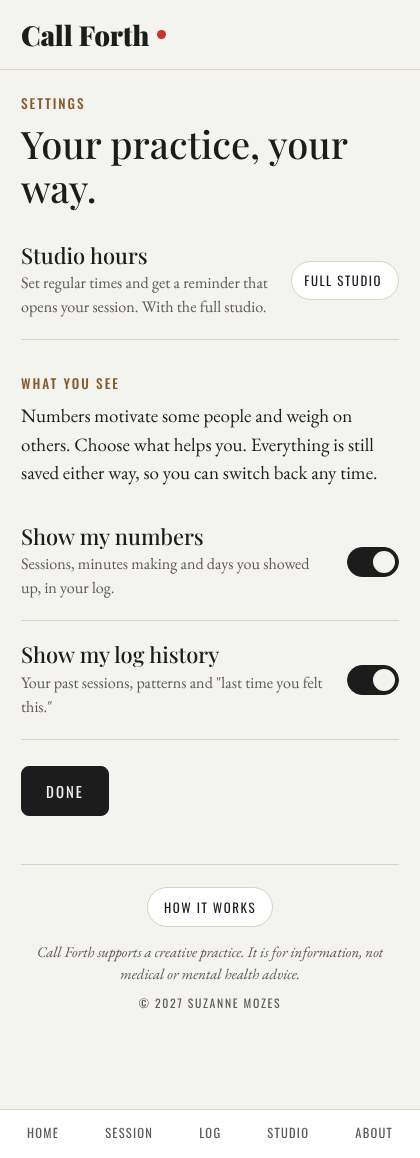
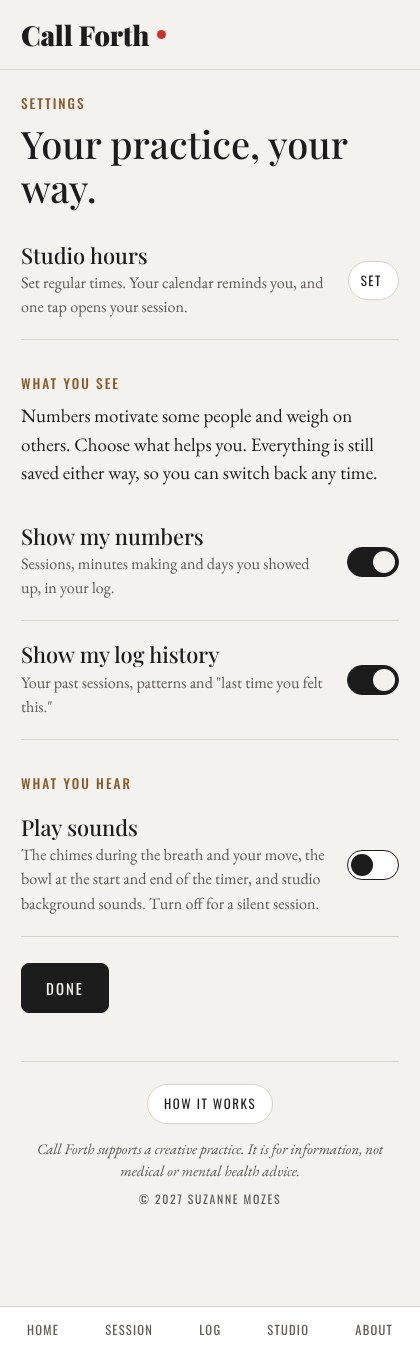
No re-rolling: pick up where you left off, one choice only, and a Play sounds switch
Claude-Session: https://claude.ai/code/session_01AC3uPqKtQyPW92GmPrk1JA

diff --git a/prototype/index.html b/prototype/index.html
@@ -134,6 +134,11 @@
   .crumbs { display: flex; gap: 8px; flex-wrap: wrap; margin-bottom: 26px; }
   .crumbs span { font-family: var(--l); text-transform: uppercase; letter-spacing: .12em; font-size: .62rem; color: var(--muted); border-bottom: 1px solid transparent; padding-bottom: 2px; }
   .crumbs span.on { color: var(--charcoal); border-bottom-color: var(--charcoal); }
+  .resume { background: var(--panel); border: 1px solid var(--stone); padding: 26px 26px 20px; margin-top: 8px; }
+  .resume .resume-line { font-family: var(--h); font-size: 1.3rem; line-height: 1.35; margin: 10px 0 18px; }
+  .resume .note { margin-top: 12px; }
+  #else-choices.chosen .choice:not(.on) { display: none; }
+  #else-choices.chosen { grid-template-columns: 1fr; }
   .breath-done { text-align: center; margin: -8px 0 20px; }
   .breath-done .note { margin-top: 10px; }
   .alt-breath { text-align: center; margin: -14px 0 24px; }
@@ -339,7 +344,7 @@
 <header>
   <div class="bar">
     <button class="brand" onclick="go('home')" aria-label="Call Forth, go home">Call Forth <span class="dot"></span></button>
-    <button class="pill leave" aria-label="Leave session" onclick="track('session_left',{step:state.step});go('home')"><svg class="ic" viewBox="0 0 24 24" aria-hidden="true"><path d="M6 6l12 12M18 6L6 18"/></svg> Leave</button>
+    <button class="pill leave" aria-label="Leave session" onclick="leaveSession()"><svg class="ic" viewBox="0 0 24 24" aria-hidden="true"><path d="M6 6l12 12M18 6L6 18"/></svg> Leave</button>
     <nav class="top" aria-label="Main">
       <button data-nav="home" onclick="go('home')">Home</button>
       <button data-nav="session" onclick="startOrResume()">Session</button>
@@ -420,8 +425,14 @@
       <p class="reassure">About two minutes from here to making.</p>
       <p class="echo" id="echo" style="display:none"></p>
     </div>
+    <div class="resume" id="resume" style="display:none">
+      <div class="label">Pick up where you left off</div>
+      <p class="resume-line">You'd already begun. No need to start over.</p>
+      <div class="actions"><button class="btn" onclick="resumeSession()">My work is open. Start.</button><button class="btn ghost" onclick="resumeMove()">Show me my move</button></div>
+      <p class="note" id="resume-note"></p>
+    </div>
     <div class="blocks" id="blocks"></div>
-    <p style="margin-top:20px"><button class="quiet ready" onclick="straightToMaking()"><span id="ready-line">I feel pretty good today.</span> <span style="white-space:nowrap;display:inline-flex;align-items:center;gap:8px">Straight to making <svg class="ic" viewBox="0 0 24 24" aria-hidden="true"><path d="M5 12h14M13 6l6 6-6 6"/></svg></span></button></p>
+    <p style="margin-top:20px" id="ready-wrap"><button class="quiet ready" onclick="straightToMaking()"><span id="ready-line">I feel pretty good today.</span> <span style="white-space:nowrap;display:inline-flex;align-items:center;gap:8px">Straight to making <svg class="ic" viewBox="0 0 24 24" aria-hidden="true"><path d="M5 12h14M13 6l6 6-6 6"/></svg></span></button></p>
   </section>
 
   <!-- SESSION -->
@@ -495,9 +506,9 @@
 
       <!-- something else: two choices only -->
       <div id="step-else">
-        <button class="quiet back" style="margin:-6px 0 4px -4px" onclick="setStep('move')"><svg class="ic" viewBox="0 0 24 24" aria-hidden="true"><path d="M19 12H5M11 6l-6 6 6 6"/></svg> Back to my move</button>
+        <button class="quiet back" id="else-back" style="margin:-6px 0 4px -4px" onclick="setStep('move')"><svg class="ic" viewBox="0 0 24 24" aria-hidden="true"><path d="M19 12H5M11 6l-6 6 6 6"/></svg> Back to my move</button>
         <div class="label" style="margin-top:6px">Something else</div>
-        <h2 style="margin:8px 0 6px">Two ways in. Pick one.</h2>
+        <h2 style="margin:8px 0 6px" id="else-h">Two ways in. Pick one.</h2>
         <div class="two-choice" id="else-choices"></div>
         <div id="else-detail"></div>
         <p class="note why-two">Why only two? When you're stuck, fewer choices make it easier to start.</p>
@@ -656,6 +667,11 @@
       <div class="setting">
         <div><h3>Show my log history</h3><p class="note" style="font-style:normal;margin:4px 0 0">Your past sessions, patterns and "last time you felt this."</p></div>
         <button class="switch" role="switch" id="sw-history" onclick="setPref('showHistory', !state.showHistory)"><span></span></button>
+      </div>
+      <div class="label" style="margin-top:34px">What you hear</div>
+      <div class="setting">
+        <div><h3>Play sounds</h3><p class="note" style="font-style:normal;margin:4px 0 0">The chimes during the breath and your move, the bowl at the start and end of the timer, and studio background sounds. Turn off for a silent session.</p></div>
+        <button class="switch" role="switch" id="sw-sound" onclick="setPref('soundOn', !state.soundOn)"><span></span></button>
       </div>
       <button class="btn" style="margin-top:26px" onclick="go(state.backFrom || 'home')">Done</button>
     </div>
@@ -821,6 +837,7 @@
   <label>Visits <input type="number" id="visits" min="1" value="12" style="width:52px" onchange="state.visits=+this.value;decideConsult();refreshPanels()"></label>
   <label><input type="checkbox" id="force" onchange="state.forceConsult=this.checked;decideConsult();refreshPanels()"> Show consult this visit</label>
   <button onclick="newVisit();go('home')" style="font:inherit">Simulate a new sign-on</button>
+  <button onclick="if(state.resume){state.resume.at-=15*60000;} go('home')" style="font:inherit">Let 15 minutes pass</button>
   <button onclick="go('quote');renderQuote(1)" style="font:inherit">Next day's light</button>
   <label><input type="checkbox" id="member" onchange="state.member=this.checked;renderBlocks()"> Preview as Studio member</label>
   <label>Light <select id="light" onchange="state.lightPreview=this.value;applyLight()"><option value="">Now</option><option value="morning">Morning</option><option value="evening">Evening</option><option value="night">Night (dark room)</option></select></label>
@@ -945,7 +962,7 @@ const OPTIONS = {
 };
 
 
-const state = { daysThisMonth: 11, timerView:'clock', hours:{days:[], time:'09:00', len:15, email:true, set:false}, hoursOffered:false, member:false, showNumbers:true, showHistory:true, useAudio:true, sound:'Silence', name:'Maya', disciplines:['writing'], customTags:[], practiced:'12 years', visits:12, consultMonth:null, consultThisVisit:false, forceConsult:false, block:null, step:'breathe', len:15, left:15*60, running:false, tid:null, btid:null, breathing:false,
+const state = { daysThisMonth: 11, timerView:'clock', hours:{days:[], time:'09:00', len:15, email:true, set:false}, hoursOffered:false, member:false, showNumbers:true, showHistory:true, soundOn:true, useAudio:true, sound:'Silence', name:'Maya', disciplines:['writing'], customTags:[], practiced:'12 years', visits:12, consultMonth:null, consultThisVisit:false, forceConsult:false, block:null, step:'breathe', len:15, left:15*60, running:false, tid:null, btid:null, breathing:false,
   log:[
     { when:'Yesterday', block:'teeth', mins:15, breath:'box', tried:'move', felt:'helped', what:'Finally opened the essay. 400 words, half of them good.' },
     { when:'Monday', block:'blank', mins:25, breath:'vagal', tried:'move', felt:'helped', what:'Three ugly sketches, then one I like.' },
@@ -1035,7 +1052,7 @@ function renderSettings(){
   $('hours-line').textContent = !state.member ? 'Set regular times and get a reminder that opens your session. With the full studio.'
     : state.hours.set ? hoursSummary() : 'Set regular times. Your calendar reminds you, and one tap opens your session.';
   $('hours-btn').textContent = state.member ? (state.hours.set ? 'Change' : 'Set') : 'Full studio';
-  $('sw-numbers').setAttribute('aria-checked', state.showNumbers); $('sw-history').setAttribute('aria-checked', state.showHistory);
+  $('sw-numbers').setAttribute('aria-checked', state.showNumbers); $('sw-history').setAttribute('aria-checked', state.showHistory); $('sw-sound').setAttribute('aria-checked', state.soundOn !== false);
 }
 function signIn(){ state.visits++; decideConsult(); newVisit(); go('register'); }
 function register(){
@@ -1064,11 +1081,35 @@ function renderEcho(){
   const e = notes[(state.visits/3) % notes.length | 0];
   $('echo').innerHTML = `"${e.what.replace(/</g,'&lt;')}" <span class="who">You, ${e.when.toLowerCase()}</span>`;
 }
+/* No re-rolling: if someone leaves a session before making (Breathe, Your move, Something else, or the timer before
+   it finishes) and comes back within 15 minutes, Home offers only that session, straight to the timer or their move.
+   After 15 minutes everything resets. Leaving on Log it (after making) doesn't count. */
+const RESUME_MINS = 15;
+function leaveSession(){
+  track('session_left', { step: state.step });
+  const unfinished = ['breathe','move','else'].includes(state.step) || (state.step === 'flow' && !state.over && state.left > 0);
+  state.resume = unfinished ? { at: Date.now(), block: state.block, breath: state.breath, tried: state.tried, sid: state.sid } : null;
+  go('home');
+}
+function resumeActive(){ return !!(state.resume && Date.now() - state.resume.at < RESUME_MINS * 60000); }
+function resumeSession(){ const r = state.resume; track('resume_started', { to: 'timer' }); state.resume = null; reenter(r); beginMaking(); }
+function resumeMove(){ const r = state.resume; track('resume_started', { to: 'move' }); state.resume = null; reenter(r); state.cueSid = state.sid; setStep('move'); }
+function reenter(r){ state.block = r.block; state.breath = r.breath; state.tried = r.tried || 'move'; state.sid = r.sid; state.blockAt = Date.now(); go('session'); }
 function renderBlocks(){
   if (!state.greeting) newVisit(true);
   renderEcho();
   $('hello-name').textContent = state.greeting.replace('{n}', state.name);
   $('home-q').textContent = state.question;
+  const resuming = resumeActive();
+  $('resume').style.display = resuming ? 'block' : 'none';
+  $('blocks').style.display = resuming ? 'none' : ''; $('ready-wrap').style.display = resuming ? 'none' : '';
+  document.querySelector('#s-home .reassure').style.display = resuming ? 'none' : ''; if (resuming) $('echo').style.display = 'none';
+  if (resuming) {
+    const left = Math.max(1, Math.ceil((state.resume.at + RESUME_MINS*60000 - Date.now()) / 60000));
+    $('home-q').textContent = 'Your work is still waiting.';
+    $('resume-note').textContent = `Everything else opens again in ${left} minute${left === 1 ? '' : 's'}.`;
+    track('resume_shown', { mins_left: left });
+  } else if (state.resume) state.resume = null;
   const wrap = $('blocks'); wrap.innerHTML = '';
   BLOCKS.forEach(b => {
     const open = b.free || state.member;
@@ -1405,7 +1446,7 @@ function altBreaths(){
 }
 function renderAltBreath(){
   const box = $('alt-breath'), alts = altBreaths();
-  box.style.display = (state.member && alts.length) ? 'block' : 'none';
+  box.style.display = (state.member && alts.length && state.altSid !== state.sid) ? 'block' : 'none';
   $('alt-open').style.display = 'none'; $('alt-toggle').style.display = '';
   $('alt-keep').textContent = 'Keep the ' + BREATHS[state.breath].short;
   $('alt-cards').innerHTML = alts.map(b => `<button class="alt-card" onclick="switchBreath('${b}')"><div class="t">${BREATHS[b].name}</div><div class="d">${ALT_LINE[b] || ''}</div></button>`).join('');
@@ -1417,7 +1458,7 @@ function openAltBreaths(){
 }
 function keepBreath(){ $('alt-open').style.display = 'none'; $('alt-toggle').style.display = ''; if (!state.breathStarted) autoBreath(); }
 function switchBreath(id){
-  track('breath_switched', { from: state.breath, to: id });
+  track('breath_switched', { from: state.breath, to: id }); state.altSid = state.sid;
   setBreath(id); renderAltBreath(); autoBreath();
 }
 /* Breathe again: after a breath ends they can go through it again up to 3 more times. The screen moves on to
@@ -1459,7 +1500,7 @@ function setBreath(id){
 /* try something else */
 function offerElse(){
   state.offered = state.offered || [];
-  $('else-detail').innerHTML = '';
+  $('else-detail').innerHTML = ''; $('else-choices').classList.remove('chosen'); $('else-h').textContent = 'Two ways in. Pick one.'; $('else-back').style.display = '';
   const shuffle = a => a.map(v=>[Math.random(),v]).sort((x,y)=>x[0]-y[0]).map(x=>x[1]);
   const pool = Object.keys(OPTIONS).filter(k => state.member || !OPTIONS[k].studio);
   const fresh = pool.filter(k => !state.offered.includes(k));
@@ -1478,6 +1519,7 @@ function pickElse(kind){
   const o = OPTIONS[kind], b = blockById(state.block), locked = o.studio && !state.member;
   track('something_else',{option:kind, locked});
   document.querySelectorAll('#else-choices .choice').forEach(c => c.classList.toggle('on', c.getAttribute('onclick').includes(`'${kind}'`)));
+  if (!locked) { $('else-choices').classList.add('chosen'); $('else-h').textContent = 'Your way in.'; $('else-back').style.display = 'none'; }
   let html;
   if (locked) {
     html = `<div class="card"><div class="label">In the full studio</div><h3 style="margin:8px 0">${o.title}</h3><p>${o.why}. Ten more ways in, many guided by Suz's voice, come with the full studio.</p><button class="btn" onclick="go('studio')">See the studio</button></div>`;
@@ -1501,8 +1543,8 @@ function renderTimerPanel(){
   document.querySelectorAll('#snd-chips .chip').forEach(c => c.classList.toggle('on', c.dataset.snd === state.sound));
   document.querySelectorAll('#view-chips .chip').forEach(c => c.classList.toggle('on', c.dataset.view === currentView()));
   $('view-chips').style.display = state.showNumbers ? '' : 'none';
-  $('snd-chips').style.display = state.member ? '' : 'none';
-  $('timer-status').textContent = state.member ? `${state.len} min · ${state.sound}` : `${state.len} min`;
+  $('snd-chips').style.display = (state.member && state.soundOn !== false) ? '' : 'none';
+  $('timer-status').textContent = state.soundOn === false ? `${state.len} min · Sound off` : state.member ? `${state.len} min · ${state.sound}` : `${state.len} min`;
 }
 function toggleTimerPanel(){ const p = $('timer-panel'); const open = p.style.display === 'none'; p.style.display = open ? 'block' : 'none'; $('timer-pill').setAttribute('aria-expanded', open); renderTimerPanel(); }
 /* One tap from the move to making: the timer starts at their usual length and sound. */
@@ -1528,6 +1570,7 @@ function resetFlowUI(){ document.body.classList.remove('timeup'); state.over = f
 }
 /* 3. One soft bell marks the threshold (and a gentler one at the end). Web Audio, no sound files. */
 function bell(soft){
+  if (state.soundOn === false) return;
   /* A warm singing-bowl tone: low fundamental, two gently beating partials, slow bloom, long fade, softened highs. */
   try { const ctx = state.actx || (state.actx = new (window.AudioContext||window.webkitAudioContext)());
     if (ctx.state === 'suspended') ctx.resume();
@@ -1552,6 +1595,7 @@ const KOSHI = {
 const BREATH_CHIME = { box:'aria', vagal:'terra', lion:'ignis', bee:'aqua', four78:'aqua', belly:'terra', exhale:'aqua', pursed:'aria' };
 function koshi(breath){ koshiChime(BREATH_CHIME[breath] || 'terra'); }
 function koshiChime(name){
+  if (state.soundOn === false) return;
   try { const ctx = state.actx || (state.actx = new (window.AudioContext||window.webkitAudioContext)()); if (ctx.state === 'suspended') ctx.resume();
     const rods = KOSHI[name] || KOSHI.terra;
     const lp = ctx.createBiquadFilter(); lp.type = 'lowpass'; lp.frequency.value = 4200; lp.Q.value = .3;

diff --git a/docs/App Brief.md b/docs/App Brief.md
@@ -13,11 +13,11 @@ The full written spec: every screen, rule, piece of content and tracked event. T
 1. **Sign in:** "Call Forth" in a bold wordmark (Playfair Display, heaviest weight) with the red dot, subhead "Make the thing.", email field and one button, "Email me a sign-in link" (no password), plus "Free to start. No password: tap the link we email you, and Call Forth keeps you signed in on this device." Returning artists skip this page and open straight to Home. No founder name on this page.
 2. **Registration (first sign-in only):** "Tell me about your practice." What should I call you? · What do you make? ("Choose all that apply"; the 10 categories as paint-chip tiles: each discipline has its own muted gallery tone, shown as a narrow strip on the tile's left edge, with a small checkbox outlined in that tone. In order: clay #B5654A, slate #4F6475, bronze #8A5A2B, sage #8A9A6E, rose #B88482, verdigris #2E8A7E, ink blue #2F4A6B, plum #6E4A63, ochre #C2913A, olive #6F6A3A. Choosing a tile washes it lightly in its tone (about 14%), outlines it in that tone and fills the checkbox. No background image or gradient. On a phone the tiles stack in one column; Custom opens a box to add their own tags, shown as removable chips) · How long have you been creating? (free text; reads "practicing your [noun]" when only one is chosen) ("Three quick questions"). Above Continue, a short line: "Call Forth records which steps you use, never what you write, so it can get better at helping you. [Link to privacy note.]"
 3. **Welcome (first time, and via "How it works"):** three steps: tell me what's in the way; breathe, then take your move; make the thing, then log it.
-4. **Home:** a greeting and a question that change every sign-on (see "Greetings and questions" below). The bronze greeting with their name is set larger than other labels (about 1rem Oswald capitals), with generous space (about 18px) before the question headline. Eight block cards: 3 free (no label), 5 studio (small label "Full studio" when locked, "Studio" for members; tapping a locked one goes to Studio). Under the question, one quiet italic line: "About two minutes from here to making." On every third visit (and only with log history on), one line from their own past log appears under that, in small italics with a bronze tag: "Rewrote the opening paragraph." YOU, LAST TUESDAY. Below the blocks, a verdigris "straight to making" link, a little larger than the other quiet labels: an italic Playfair phrase that changes every visit (never the same twice in a row) followed by "STRAIGHT TO MAKING →". The phrases: I feel pretty good today. · I'm in a good mood. · No complaints. · I've got oodles of energy. · Let's do this. · I've got this. It skips the block and breath and starts the timer at their usual length (logged as "Nothing in the way"). Nothing else to browse: no "coming soon" cards, no stats (those live in the Log). "How it works" lives in the footer.
+4. **Home:** a greeting and a question that change every sign-on (see "Greetings and questions" below). The bronze greeting with their name is set larger than other labels (about 1rem Oswald capitals), with generous space (about 18px) before the question headline. Eight block cards: 3 free (no label), 5 studio (small label "Full studio" when locked, "Studio" for members; tapping a locked one goes to Studio). Under the question, one quiet italic line: "About two minutes from here to making." On every third visit (and only with log history on), one line from their own past log appears under that, in small italics with a bronze tag: "Rewrote the opening paragraph." YOU, LAST TUESDAY. Below the blocks, a verdigris "straight to making" link, a little larger than the other quiet labels: an italic Playfair phrase that changes every visit (never the same twice in a row) followed by "STRAIGHT TO MAKING →". The phrases: I feel pretty good today. · I'm in a good mood. · No complaints. · I've got oodles of energy. · Let's do this. · I've got this. It skips the block and breath and starts the timer at their usual length (logged as "Nothing in the way"). **Pick up where you left off:** if someone leaves a session before making (on Breathe, Your move, Something else, or the timer before it finishes) and comes back to Home within 15 minutes, Home doesn't show the blocks, the "about two minutes" line, their log line or Straight to making. The question becomes "Your work is still waiting." and one card shows: a small "Pick up where you left off" label, "You'd already begun. No need to start over.", "My work is open. Start." (solid; starts the timer for the same block) and "Show me my move" (outline; opens the move straight at stage 3, no chimes), with a small line "Everything else opens again in N minutes." After 15 minutes Home returns to normal. Leaving on Log it (after making) never triggers it. The leave time is saved with the person, so it also works if they close the app and reopen it. Nothing else to browse: no "coming soon" cards, no stats (those live in the Log). "How it works" lives in the footer.
 5. **Session (focus mode):** four steps with a step indicator. The menu disappears for the whole session; the header shows only the wordmark (not clickable) and a small "× Leave" pill at the top right. No upsells, locks or studio invitations appear inside a session. The screen stays awake for the whole session. On phones, each step's main button is pinned to the bottom of the screen. Steps fade in gently. The session pages never name the block they chose.
-   - **Breathe:** one breath, already chosen (studio members who've had a breath help with this block get that breath, with one quiet line above it: "Last time, the [breath] helped."). Breath name, how-to (after they've done that breath 3 times, the how-to folds into a small "How to do it"), a large animated circle (about 400px across on a computer, nearly the full width of a phone: min(400px, 86vw); its words set large, the 3-2-1 countdown at about 6rem) with a small progress bar. The circle and its progress bar share the timer's dawn-to-dusk colors: the circle starts blush and deepens round by round through ochre and sage toward dusk blue, softly lit from the upper left, so the breath and the making feel like one arc. The breath starts by itself: the circle shows a large 3, 2, 1 with "Breathing with you in 3…", then begins (no voice). As the countdown begins, a soft Koshi wind chime plays, its tuning matched to the breath's intention: Box breath → Aria (air, mental clarity; A C E A B C E B), Vagal nerve breath → Terra (earth, grounding; G C E F G C E G), Lion's breath → Ignis (fire, transformation; G B D G B D G A), Bumble bee hum → Aqua (water, emotional release; A D F G A D F A), 4-7-8 breathing → Aqua, Diaphragmatic breathing → Terra, Extended exhale → Aqua, Pursed-lip breathing → Aria. Each is built in the browser (no sound files) an octave below the real chime: eight steel-rod notes, a soft pass of five notes over about two seconds that rings out by about 3.5 seconds, so it fills the countdown and fades as the breath begins. It plays quietly, softer than the timer's bowl. (Koshi's "grounding," "release," "clarity" and "transformation" describe each chime's mood, not proven effects; no health claims.) The main button reads "Pause" (after pausing: "Begin again"), "Skip to my move →" (quiet label), and a small collapsed "Why this works" with sources. When the breath ends, the circle says "Done" and the Terra chime plays, the signal that the page is about to change. The Pause and Skip buttons give way to two buttons: "On to my move" (solid) and "Breathe again" (outline), with a small italic line, "Moving on to your move in a moment." After 6 seconds it moves on to Your move by itself. "Breathe again" runs the same breath again from its 3-2-1 countdown, up to 3 more times per session (the button reads "Breathe again (2 left)", then "(1 left)"). After the third repeat there's no Breathe again button, only "On to my move" and the line "That's plenty of breath. Your work is waiting.", and it moves on after 6 seconds. **Choosing another breath (studio members only):** under the circle, one small pill, "Prefer a different breath? ⌄". Tapping it pauses the breath and opens "Two other breaths for today": two cards, each with the breath's name and one short line (e.g. Extended exhale: "In 4, out 8. Settles a keyed-up body."), and a quiet "Keep the [breath]" that closes it and carries on. Choosing a card switches to that breath and starts its 3-2-1 countdown. The two come from a set pair for each block, chosen by intention (teeth: Extended exhale, Diaphragmatic · blank space: Extended exhale, Box · what comes next: Box, Vagal · not a real artist: Lion's, Pursed-lip · not in the mood: Bumble bee hum, Box · exhausted: Lion's, Box · overstimulated: Bumble bee hum, Extended exhale · understimulated: Bumble bee hum, Box) [Suz to confirm]; if a member's learned breath is showing, the block's own breath is offered first. Free users don't see the pill. Circle words follow each breath: In / Sip / Hold / Out / Haaa / Hum / Whoosh / Release; alternate nostril shows "In · left", "Out · right" and so on. Each breath has its own number of rounds.
+   - **Breathe:** one breath, already chosen (studio members who've had a breath help with this block get that breath, with one quiet line above it: "Last time, the [breath] helped."). Breath name, how-to (after they've done that breath 3 times, the how-to folds into a small "How to do it"), a large animated circle (about 400px across on a computer, nearly the full width of a phone: min(400px, 86vw); its words set large, the 3-2-1 countdown at about 6rem) with a small progress bar. The circle and its progress bar share the timer's dawn-to-dusk colors: the circle starts blush and deepens round by round through ochre and sage toward dusk blue, softly lit from the upper left, so the breath and the making feel like one arc. The breath starts by itself: the circle shows a large 3, 2, 1 with "Breathing with you in 3…", then begins (no voice). As the countdown begins, a soft Koshi wind chime plays, its tuning matched to the breath's intention: Box breath → Aria (air, mental clarity; A C E A B C E B), Vagal nerve breath → Terra (earth, grounding; G C E F G C E G), Lion's breath → Ignis (fire, transformation; G B D G B D G A), Bumble bee hum → Aqua (water, emotional release; A D F G A D F A), 4-7-8 breathing → Aqua, Diaphragmatic breathing → Terra, Extended exhale → Aqua, Pursed-lip breathing → Aria. Each is built in the browser (no sound files) an octave below the real chime: eight steel-rod notes, a soft pass of five notes over about two seconds that rings out by about 3.5 seconds, so it fills the countdown and fades as the breath begins. It plays quietly, softer than the timer's bowl. (Koshi's "grounding," "release," "clarity" and "transformation" describe each chime's mood, not proven effects; no health claims.) The main button reads "Pause" (after pausing: "Begin again"), "Skip to my move →" (quiet label), and a small collapsed "Why this works" with sources. When the breath ends, the circle says "Done" and the Terra chime plays, the signal that the page is about to change. The Pause and Skip buttons give way to two buttons: "On to my move" (solid) and "Breathe again" (outline), with a small italic line, "Moving on to your move in a moment." After 6 seconds it moves on to Your move by itself. "Breathe again" runs the same breath again from its 3-2-1 countdown, up to 3 more times per session (the button reads "Breathe again (2 left)", then "(1 left)"). After the third repeat there's no Breathe again button, only "On to my move" and the line "That's plenty of breath. Your work is waiting.", and it moves on after 6 seconds. **Choosing another breath (studio members only):** under the circle, one small pill, "Prefer a different breath? ⌄". Tapping it pauses the breath and opens "Two other breaths for today": two cards, each with the breath's name and one short line (e.g. Extended exhale: "In 4, out 8. Settles a keyed-up body."), and a quiet "Keep the [breath]" that closes it and carries on. Choosing a card switches to that breath and starts its 3-2-1 countdown, and the pill then disappears for the rest of the session (one switch only, so choosing doesn't become browsing). The two come from a set pair for each block, chosen by intention (teeth: Extended exhale, Diaphragmatic · blank space: Extended exhale, Box · what comes next: Box, Vagal · not a real artist: Lion's, Pursed-lip · not in the mood: Bumble bee hum, Box · exhausted: Lion's, Box · overstimulated: Bumble bee hum, Extended exhale · understimulated: Bumble bee hum, Box) [Suz to confirm]; if a member's learned breath is showing, the block's own breath is offered first. Free users don't see the pill. Circle words follow each breath: In / Sip / Hold / Out / Haaa / Hum / Whoosh / Release; alternate nostril shows "In · left", "Out · right" and so on. Each breath has its own number of rounds.
    - **Your move:** three stages, each alone on the screen, set large to catch the eye, each in its own typeface and marked by its own soft Koshi chime (the same browser-built chimes as the breath), so the eye and ear register that something new has arrived. Each stage fades out over about 0.6 seconds as the next fades and rises in. (1) **"Get your work open first."** in heavy Playfair Display (900 weight, about 3rem on a phone up to 5.6rem on a computer), with a smaller italic line beneath, "The file, the sketchbook, the instrument.", and a small "Tap when you're ready" label (Oswald capitals). Chime: none here when they arrive from a finished breath (its "Done" already rang Terra); Terra plays here only if they skipped the breath. It holds about 4 seconds, or a tap moves on sooner. (2) **Clearing the space**, in large italic EB Garamond (about 2rem on a phone up to 3.5rem), three lines arriving one at a time (at about 0.6, 5 and 9.5 seconds): "Close all the tabs that are open on your laptop." · "Put away your to-do lists." · "Take a moment to clear your work space." Each new line arrives in verdigris (#2E8A7E; #6CC0B3 in the dark room), and as the next one arrives, the earlier line softens to light gray (#B4AEA5; #6B655D in the dark room) over about 1.6 seconds, so it's always clear which line is new. The last line softens 10 seconds after it arrives (about 19.5 seconds in); then "Tap when you're ready" fades in, and it waits for that tap. Chime: Aqua. It can't be tapped past before then. (3) **Your move**: a larger "Your move" label, then the craft prompt for the block (under 40 words) in Fraunces (regular weight, about 2rem on a phone up to 3rem). Chime: Ignis. It stays. The stages fill most of the screen (about 60% of its height). The buttons stay in place the whole time, so someone ready can start at any stage: main button "My work is open. Start." (starts the timer immediately), or "Try something else". The sequence plays once per session: coming back from "Try something else" goes straight to the move, with no chimes. Leaving the step stops any chime still to come. With reduced motion the fades are instant.
-   - **Something else (its own page):** "Two ways in. Pick one." Two large choice cards: one body option and one mind option, suited to their block (the page doesn't name it), never repeating what they've been offered this session. Free users choose from Another prompt, Mantra and Exercise reset; studio members from all 14. No locked cards, no reshuffle. Choosing a card opens its content below (audio in Suz's voice where it has some, instructions, then "When you're done, get your work open." and "My work is open. Start.", which starts the timer). "← Back to my move" (quiet label) sits at the top of the page. One line at the bottom: "Why only two? When you're stuck, fewer choices make it easier to start." (The full research note lives on the About page.)
+   - **Something else (its own page):** "Two ways in. Pick one." Two large choice cards: one body option and one mind option, suited to their block (the page doesn't name it), never repeating what they've been offered this session. Free users choose from Another prompt, Mantra and Exercise reset; studio members from all 14. No locked cards, no reshuffle. Choosing a card makes the other card disappear, the heading becomes "Your way in." and the "← Back to my move" label goes away, so there's one path left: its content opens below (audio in Suz's voice where it has some, instructions, then "When you're done, get your work open." and "My work is open. Start.", which starts the timer). "← Back to my move" (quiet label) sits at the top of the page. One line at the bottom: "Why only two? When you're stuck, fewer choices make it easier to start." (The full research note lives on the About page.)
    - **Make:** the timer is already running when they arrive, at their usual length (default 15 min) and sound. A warm singing-bowl tone marks the start (made in the browser, no sound file: a low 220 Hz note with gently beating partials, a slow 0.18-second bloom, a long 5-second fade and softened highs, played quietly). They can show the clock (big numbers) or the dawn-to-dusk bar: a wide band, about 64px tall, across the screen under "Make the thing." that fills left to right as time passes, its color shifting from blush through ochre and sage to dusk blue (#E9D3C6 → #E3C892 → #B9C49A → #8DBAB0 → #6E9FAE), with a soft feathered leading edge and a small italic line beneath ("9 min left"; hidden for people who've turned off their numbers, so the color alone tells the time). People who've turned off "Show my numbers" always get the bar. In the dark room the bar is gently dimmed. When time is up the same bowl sounds twice, softer, 1.6 seconds apart, the clock disappears, and the page says "Time." and "Keep going if you're in it." with Keep going (solid) and I'm done (outline). Nothing moves on by itself. Keep going switches to a quiet bronze count-up past the planned length, marked "Still going" (in bar view the bar stays full and the line beneath reads "Still going"); the log records the real minutes. Pause / Resume (solid) beside "I'm done" (outline). Below them, a status pill shows the current setting ("15 min · Silence ⌄"; free users see "15 min ⌄") and opens 5 / 15 / 25 min, (studio only) Silence / Rain on glass / Studio hum, and Show the clock / Show the bar; Call Forth remembers the choice.
    - **Log it:** "What did you make? A line or two, if you like." (optional text box), "How did it go? Tap to save." with three buttons in verdigris, most saturated on the left: It helped (#2E8A7E, light text) · A little (#9CCBC2) · Not today (#EEF4F2, nearly the plain button). On a phone the three sit in one row; one tap saves and opens the Daily light page. "Skip →" (quiet label) goes to the Daily light page without saving. No consult panel here.
    - **Daily light:** a full-screen page with only one short line of encouragement, different every day. Each line comes with its own bright color palette, typeface and moving shapes (sun, blobs, squiggles, confetti, moons, stars, waves, Matisse-like cutouts). No labels and no link to the log, so they stay in the flow. Under the line: "Would you like to set another timer?" with a button "Yes, another timer" (the timer starts right away for the same block) and an outline "Not now" button beside it (goes Home). The first time anyone ever saves a log, the line is always: "You're doing it. Really doing it. You showed up and did the work." No header or menu. Motion turns off for people who ask their device for reduced motion. This is the one room in the gallery where color is allowed.
@@ -27,13 +27,14 @@ The full written spec: every screen, rule, piece of content and tracked event. T
 9. **Settings:** "Your practice, your way." Reached from a settings button at the bottom of the Log page (a gear icon with the word "Settings"). Two parts:
    - **Studio hours** (studio members; free users see "With the full studio" and the button opens Studio). Shows their current hours (e.g. "Mon, Wed, Fri at 7:30 am, 25 minutes, with an email reminder.") and a Set or Change button.
    - **What you see:** two switches: **Show my numbers** (sessions, minutes making and days you showed up, in the log) and **Show my log history** (past sessions, patterns and "last time" line). "Everything is still saved either way, so you can switch back any time." The hint "Numbers not for you? You can turn them off." shows under the Settings button while numbers and history are both on. Numbers show by default; people decide once they see them on the Log. With numbers off: no minutes, counts, bars or totals in the log (the patterns card just names the block they walk through most). With history off: the Log page shows "Your log, resting." and a card ("You've chosen not to see your history right now. Everything is still saved, so nothing is lost." + "Show my history"), the "Last time" line is hidden and the breath goes back to the block's default.
+   - **What you hear:** one switch, **Play sounds** (on by default): "The chimes during the breath and your move, the bowl at the start and end of the timer, and studio background sounds. Turn off for a silent session." Off silences every chime, bell and background sound in the app; the timer pill then reads "15 min · Sound off" and the sound choices are hidden.
 9b. **Studio hours (studio members):** "When do you make the thing?" "Pick a regular time. Your calendar reminds you, and one tap opens Call Forth ready to begin." Which days (Mon to Sun chips, choose any), what time, how long (5 / 15 / 25 min, the timer lengths), and a switch "Also email me when it's time" (on by default; shows the email: "Are you ready to practice? Tap to begin."). A preview of the calendar event ("Call Forth: make the thing", days, time, length, repeats weekly, the start link on the first line). Three buttons: Add to Google Calendar (Google's own add-event link with the repeat rule; the reminder follows their usual Google notification, with a note suggesting "At start of event"), Add to Apple Calendar and Add to Outlook (both get a calendar file, .ics, with the weekly repeat and a reminder at the start time). Then "Done" and "Remove studio hours". Event times use the person's time zone.
    - **Invitation:** offered once, on the Log page, to studio members with 3 or more saved sessions who haven't set hours: "Want to make this a standing date?" with "Set my studio hours" and "Not now". After that it lives only in Settings.
    - **Opening from a reminder:** the link (e.g. [app address]/?start=1&len=25) opens Home with the greeting "The studio is open, [name]" and the question "What's in the way today?", the timer already set to the booked length. They choose a block and begin. Missed studio hours are never shown or counted anywhere.
    - **Email reminder:** sent at the start time of each scheduled session to members who left the email switch on. Subject and body: "Are you ready to practice? Tap to begin." with the start link. Needs a small email service.
 10. **Insights (owner only, never shown to users):** blocks chosen most; where sessions get to (chose a block → breathed → took their move → started making → finished the timer → saved a log); "Try something else" picks; most common paths; median time from choosing a block to making (goal: under 2 minutes), plus the median time to each step (move shown, timer running), to see where people hesitate; how often people use "Straight to making"; studio hours (how many members set them, how many scheduled sessions were opened from a reminder, calendar vs email); the latest stored rows.
 
-**What it saves for each person:** sign-in, name, categories and custom tags, how long they've been creating, number of visits, the month the consult invitation was last shown, every session (date, block, minutes, breath used, what they tried, how it went, what they made), studio status, days they showed up this month, and their two "What you see" choices, their studio hours (days, time, length, email on or off), usual timer length and sound.
+**What it saves for each person:** sign-in, name, categories and custom tags, how long they've been creating, number of visits, the month the consult invitation was last shown, every session (date, block, minutes, breath used, what they tried, how it went, what they made), studio status, days they showed up this month, their two "What you see" choices and their Play sounds choice, the time and step they last left an unfinished session (for Pick up where you left off), their studio hours (days, time, length, email on or off), usual timer length and sound.
 
 **Content Suz provides** [to write and record]: 8 breathing exercises (Coherent breathing, Alternate nostril and Somatic release are kept for later), each with name, how-to, timing pattern, rounds, chime, why and source (no audio: the circle guides the breath); which breath is suggested for each block. For each of the 8 blocks: 2 craft prompts (each under 40 words, opening with a short instruction, readable in about 20 seconds). The 14 "something else" options (instructions, plus audio for pep talk, mini lecture, meditation, visualization, tapping, mantra and shavasana). Audio in Suz's voice for pep talks, lectures and meditations. Sound backgrounds. Consult booking link. Photo of Suz. About page: a black-and-white photo of Suz. Later doors: inner critic, too many other things, what's the point (with the "If this feels bigger than the work, please talk to someone you trust or a professional" line).
 
@@ -56,7 +57,7 @@ The full written spec: every screen, rule, piece of content and tracked event. T
 
 **Daily light designs** (8, rotating with the lines): yellow + tomato sun, Abril Fatface · cobalt + pink and yellow blobs, Fraunces italic · mint + coral squiggles, Caveat handwriting · tomato + yellow confetti, Bebas Neue capitals · blush + green moons, DM Serif Display · charcoal + yellow stars, Space Grotesk · green + pink and yellow waves, Fraunces bold · lilac + red and cobalt cutouts, DM Serif italic.
 
-**Usage history (database):** every step is saved as one row in an "events" table, for later analysis by algorithm to serve people better (e.g. reorder blocks, suggest a better breath or move for someone's patterns). Each row: timestamp, user id, session id, event name, details. Events: registered (categories, custom tags) · screen_viewed (screen) · block_chosen (block) · locked_block_tapped (block) · step_reached (breathe, move, flow, log; seconds since choosing a block) · breath_started (breath; started by the countdown or by hand) · move_stage (1, 2 or 3: which Your move stage is showing) · alt_breath_opened (breath showing) · breath_again (breath, repeat number) · breath_switched (from, to) · straight_to_making (which phrase was showing) · something_else_offered (the two options) · something_else (option) · timer_started (minutes, sound, seconds from choosing a block) · timer_length (minutes) · session_left (step) · log_skipped · time_up (planned minutes) · keep_going · timer_view (clock or bar) · timer_finished (planned, actual minutes, whether they kept going) · log_saved (whether they wrote a note, how it went, breath, what they tried; never the note itself) · log_filtered (block) · used_what_worked (breath) · upgraded (price) · consult_shown (visit number) · consult_clicked (from panel or About) · settings_changed (showNumbers or showHistory, on/off) · greeting_shown (greeting, question) · quote_shown (line, design) · another_timer (yes or not now) · hours_invite (yes or not now) · hours_set (days, time, minutes, email, calendar) · hours_removed · scheduled_slot (one per scheduled session, from the saved hours) · scheduled_open (calendar or email, minutes). Privacy: tell people at sign-up, link a short privacy note, never store their log text in this table, and let people ask for their data to be deleted.
+**Usage history (database):** every step is saved as one row in an "events" table, for later analysis by algorithm to serve people better (e.g. reorder blocks, suggest a better breath or move for someone's patterns). Each row: timestamp, user id, session id, event name, details. Events: registered (categories, custom tags) · screen_viewed (screen) · block_chosen (block) · locked_block_tapped (block) · step_reached (breathe, move, flow, log; seconds since choosing a block) · breath_started (breath; started by the countdown or by hand) · move_stage (1, 2 or 3: which Your move stage is showing) · alt_breath_opened (breath showing) · breath_again (breath, repeat number) · breath_switched (from, to) · resume_shown (minutes left) · resume_started (timer or move) · straight_to_making (which phrase was showing) · something_else_offered (the two options) · something_else (option) · timer_started (minutes, sound, seconds from choosing a block) · timer_length (minutes) · session_left (step) · log_skipped · time_up (planned minutes) · keep_going · timer_view (clock or bar) · timer_finished (planned, actual minutes, whether they kept going) · log_saved (whether they wrote a note, how it went, breath, what they tried; never the note itself) · log_filtered (block) · used_what_worked (breath) · upgraded (price) · consult_shown (visit number) · consult_clicked (from panel or About) · settings_changed (showNumbers, showHistory or soundOn, on/off) · greeting_shown (greeting, question) · quote_shown (line, design) · another_timer (yes or not now) · hours_invite (yes or not now) · hours_set (days, time, minutes, email, calendar) · hours_removed · scheduled_slot (one per scheduled session, from the saved hours) · scheduled_open (calendar or email, minutes). Privacy: tell people at sign-up, link a short privacy note, never store their log text in this table, and let people ask for their data to be deleted.
 
 **Buttons and links (no underlined links anywhere in the app):** three levels plus a pill. Solid (charcoal) for the one main action on a page. Outline for a real alternative (I'm done, Not now, Try something else, Done). Quiet label (small Oswald capitals with a bronze arrow, no underline, tap area at least 44px tall) for skipping or going back (Skip to my move →, ← Back to my move, Skip →, See the studio →, Remove studio hours). Pill (rounded, stone border) for small helpers and settings that show their current state (× Leave, How it works, 15 min · Silence ⌄, Settings). Real web links (sources, the start link inside emails and calendar events) stay as links.
 
